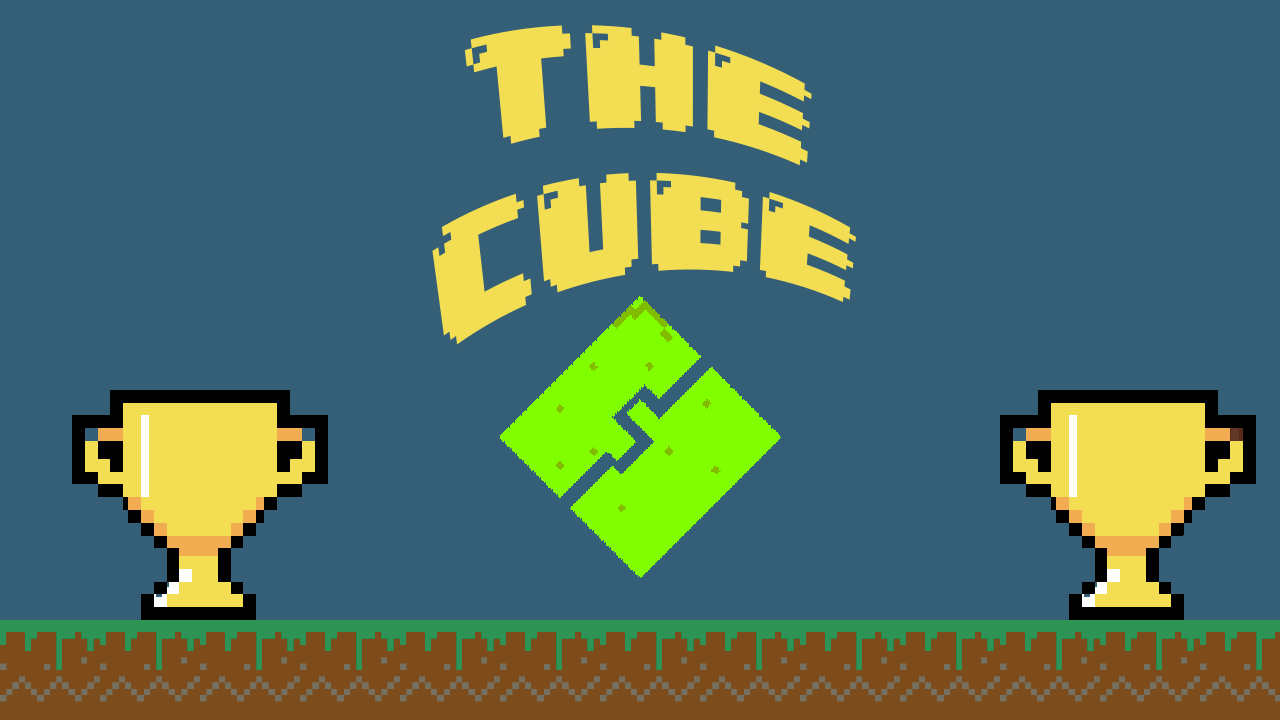
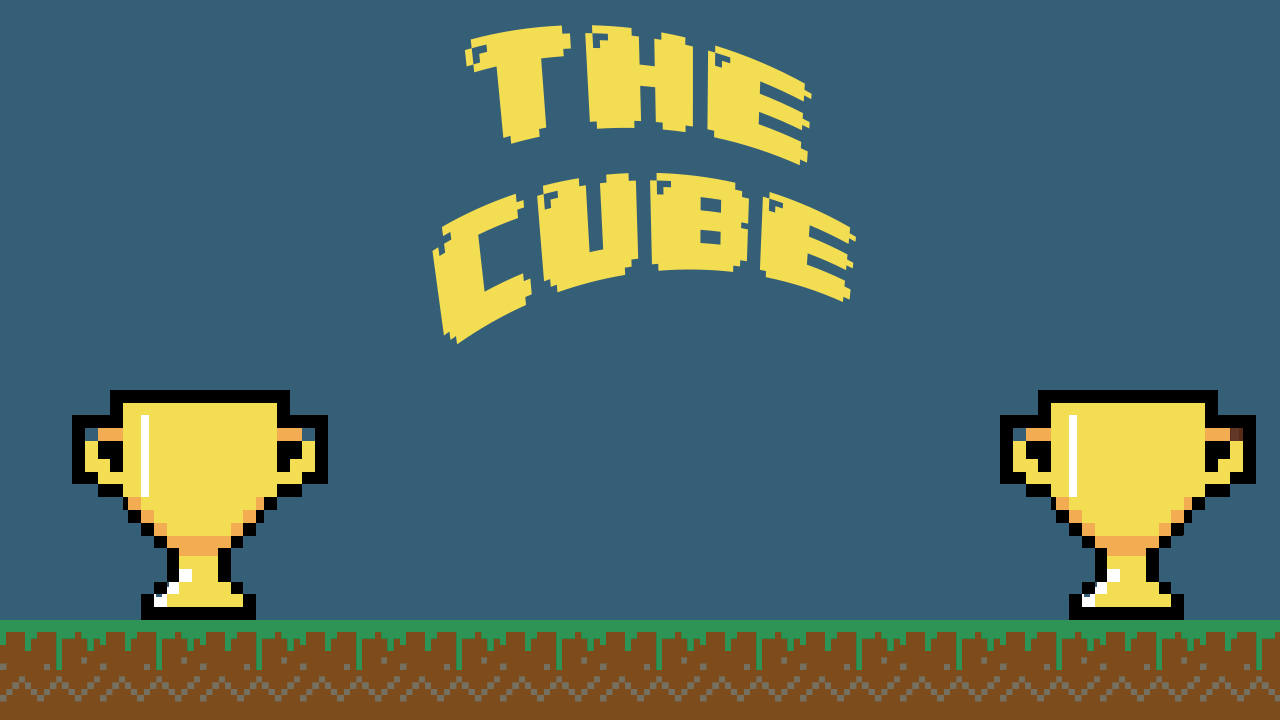
Cube Movement on menu
HELP, go to lines 164

Changed region(s): [[0.375, 0.4278, 0.625, 0.7944]]

diff --git a/test.html b/test.html
@@ -146,9 +146,12 @@
                 this.load.image('credit', 'testob/menucredits.png');
                 this.load.image('settings', 'testob/menusettings.png');
                 this.load.audio('bg', 'assets/media/music/Monplaisir - Soundtrack.mp3');
+                this.load.image('cube', 'testob/cube1.png')
+                
             },
 
             create: function() {
+                this.player = this.physics.add.sprite(100, 470, 'cube')
                 bgmusic = this.sound.add('bg');
                 if (!bgmusicIsPlaying) {
                     bgmusicIsPlaying = true;
@@ -160,6 +163,16 @@
                 }
 
                 this.add.image(0, 0, 'menuback').setOrigin(0);
+                this.add.sprite()
+                this.player = this.physics.add.sprite(650, 470, 'cube');
+               
+                  this.player.setGravityY(-350);
+
+                 if (this.player.y <= 200) {
+                    this.player.setGraivtyY(350);
+                } else if (this.player.y > 400) {
+                    this.player.setGravityY(-350);
+                }
                 window.addEventListener('touchstart', function() {
                     touchInput = true;
                 })
@@ -1758,7 +1771,8 @@
 
             create: function() {
                 this.add.image(0, 0, 'menuback').setOrigin(0);
-
+                
+                
                 this.mutebt = this.add.text(16, 16, '', {
                     fontSize: '32px',
                     fill: '#fff'
